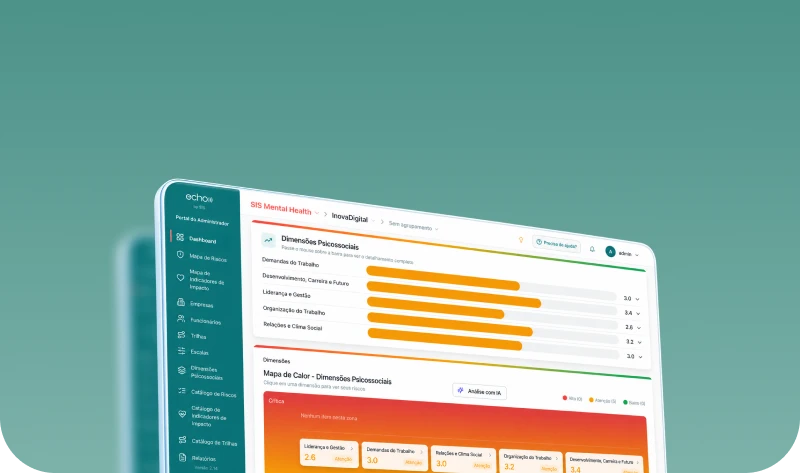
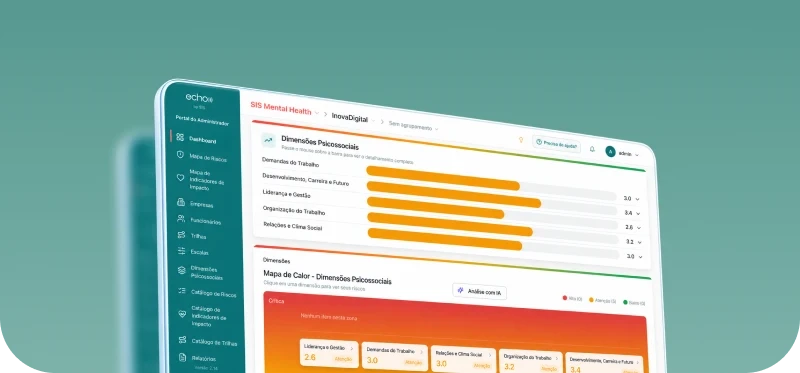
Ajustes no nr1-panel mobile: título 30px, mais respiro, tablet maior
- .nr1-panel__content padding-top 40px -> 60px (o texto estava colado
  na borda superior do card).
- .nr1-panel__heading 22px -> 30px.
- nr1-panel-mockup-mobile.webp recortado mais perto do dashboard
  (773x373 -> 800x373, removendo boa parte da margem vazia que sobrou
  no topo), reduzindo a máscara de gradiente de 22% para 18% pra
  acompanhar a nova proporção — o mockup lê como maior dentro do card.
- Nova classe .section--nr1 na seção que envolve o painel: reduz seu
  padding-bottom de 60px pra 24px nesse breakpoint. O card termina
  numa borda arredondada sólida e a seção seguinte (02 — Diagnóstico)
  começa direto com texto — os 60+60=120px de padding combinados
  entre as duas liam como uma faixa branca vazia e desproporcional
  entre elas.

Claude-Session: https://claude.ai/code/session_01CiyMTxVjrXGsaEHonQwbqa

diff --git a/css/sections.css b/css/sections.css
@@ -1927,10 +1927,10 @@
     flex-direction: column;
     align-items: flex-start;
     gap: 18px;
-    padding: 40px 20px 0;
+    padding: 60px 20px 0;
   }
   .nr1-panel__heading {
-    font-size: 22px;
+    font-size: 30px;
     line-height: 1.2;
     margin-bottom: 0;
     max-width: none;
@@ -1984,8 +1984,8 @@
        like at that exact point (which shifts depending on how tall the
        text content above ends up), instead of relying on an exact
        color match at a hard rectangular edge. */
-    -webkit-mask-image: linear-gradient(to bottom, transparent 0%, black 22%);
-    mask-image: linear-gradient(to bottom, transparent 0%, black 22%);
+    -webkit-mask-image: linear-gradient(to bottom, transparent 0%, black 18%);
+    mask-image: linear-gradient(to bottom, transparent 0%, black 18%);
   }
   /* Arrow controls for the carousel below — hidden by default (see the
      unconditional .how__carousel-nav rule near .how__aside), shown only
@@ -2140,6 +2140,13 @@
   .site-footer {
     padding-top: 60px;
     padding-bottom: 60px;
+  }
+  /* .nr1-panel already ends in a solid rounded card with its own
+     margin-top — the section's full 60px padding-bottom on top of
+     that read as a huge blank void before the next section's heading
+     (120px combined with the next section's own 60px padding-top). */
+  .section--nr1 {
+    padding-bottom: 24px;
   }
   .container {
     padding-left: 20px;

diff --git a/index.html b/index.html
@@ -56,7 +56,7 @@
 <!-- =========================================================
      01 — O QUE A NR-1 EXIGE DA SUA EMPRESA
      ========================================================= -->
-<section class="section">
+<section class="section section--nr1">
   <div class="container split">
     <div class="split__text">
       <span class="eyebrow">01 — O que a NR-1 exige da sua empresa</span>
